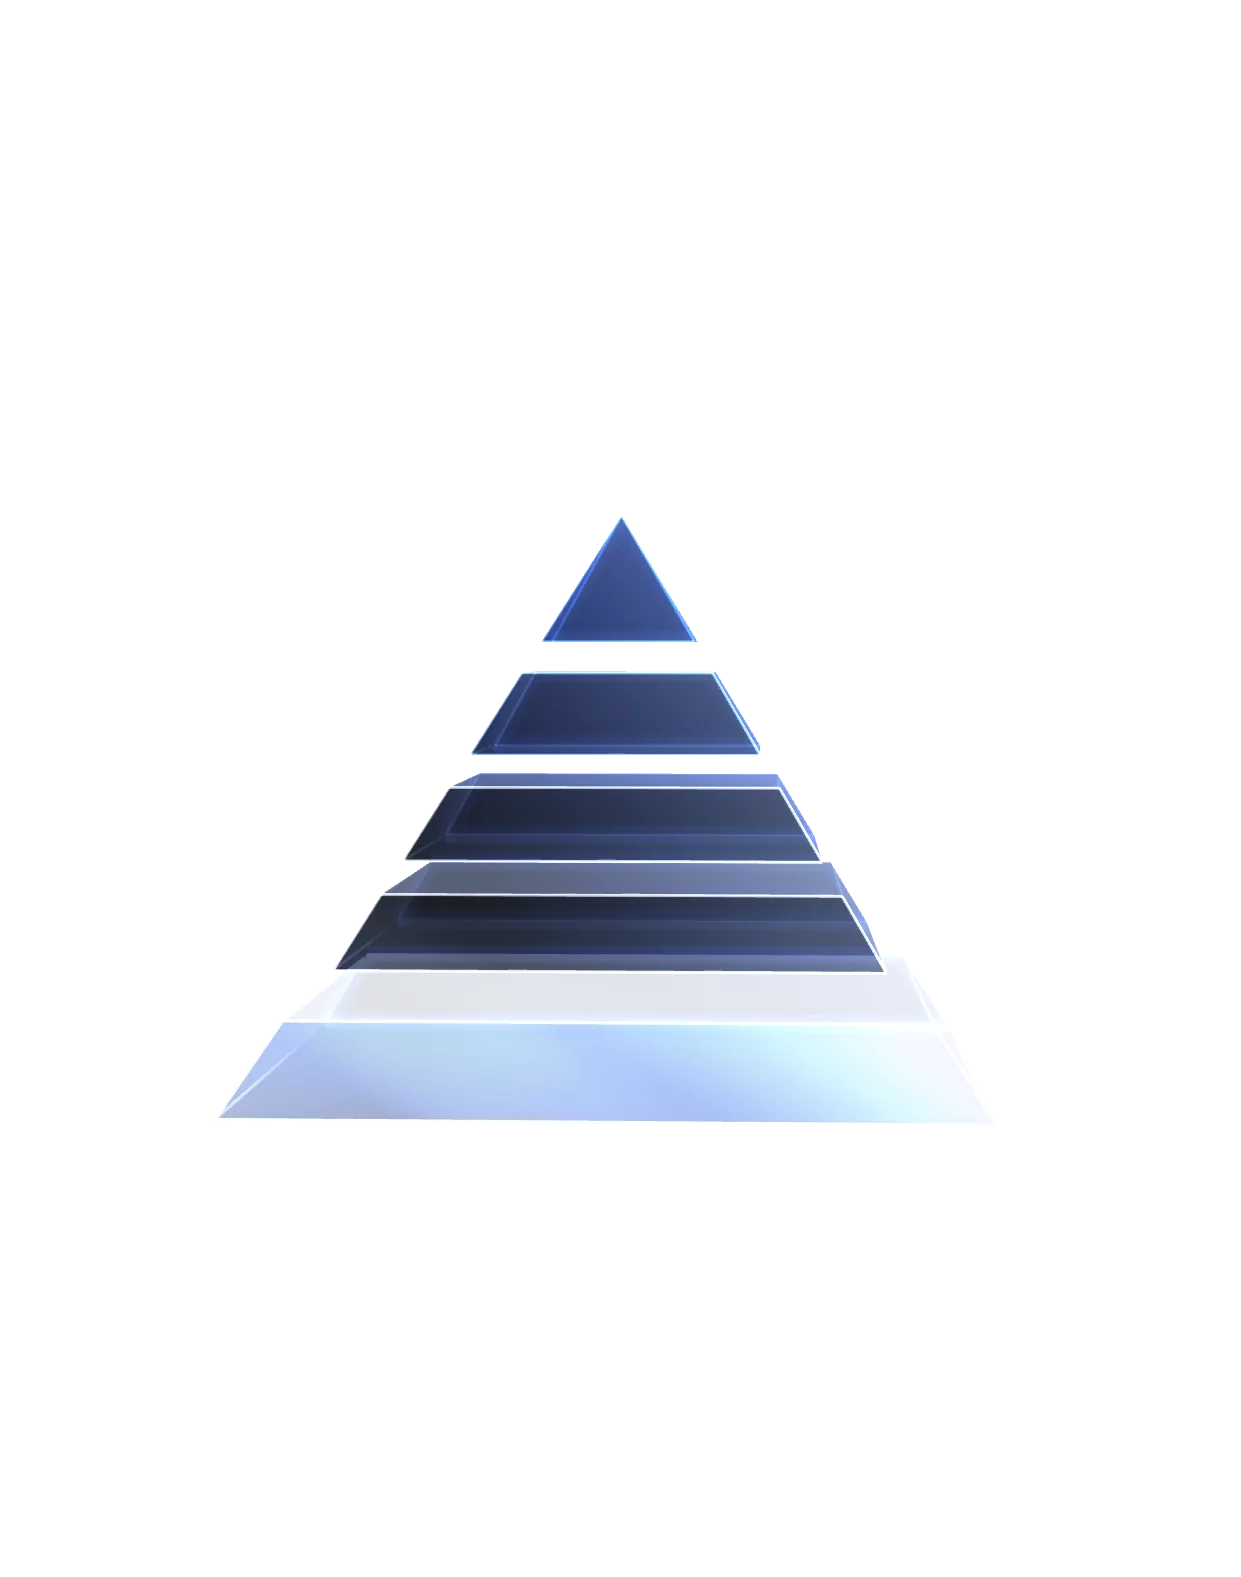
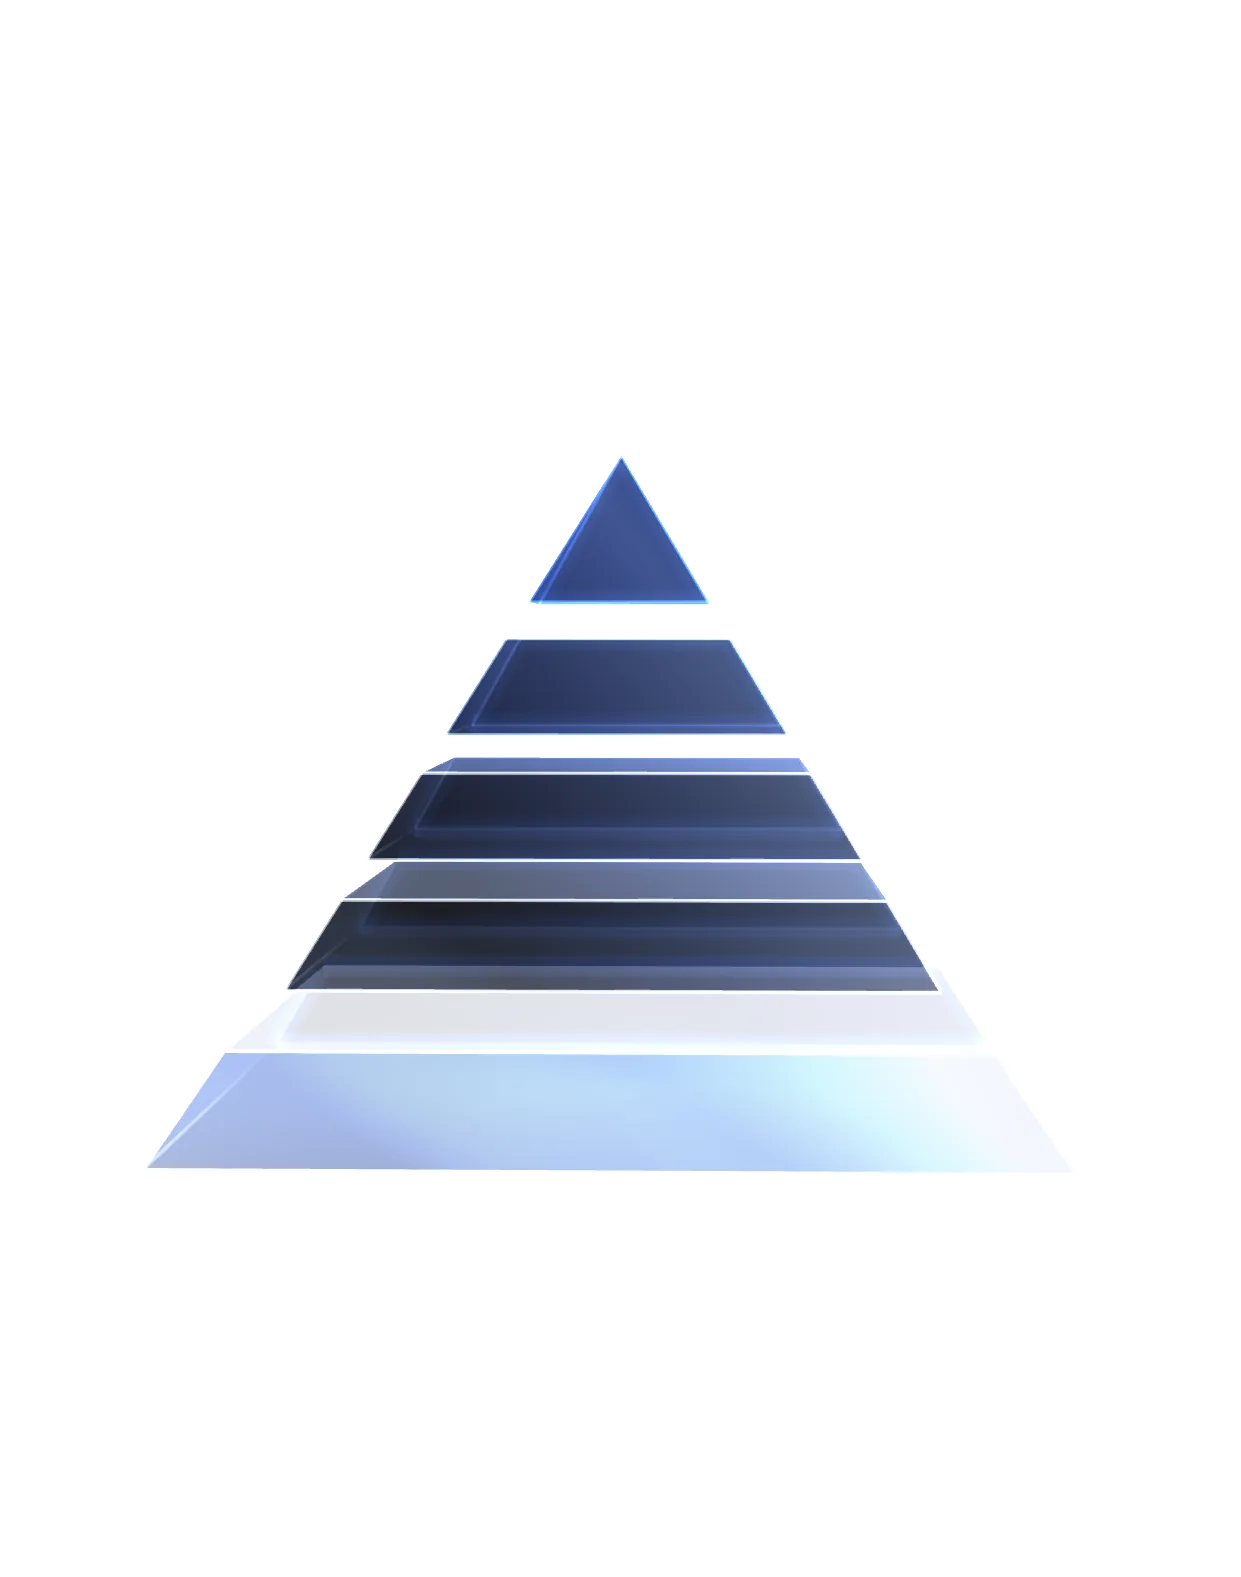
Dor com as duas frases (Nos cuidamos...), apoio da piramide novo, cases no dobro da velocidade, piramide 17% maior no computador (poster refeito), apoio da Dor e dos Cases na mesma coluna, titulo dos cases em 2 linhas e menos preto antes dos cases; ?v= novo

Changed region(s): [[0.1225, 0.2796, 0.7961, 0.7457]]

diff --git a/index.html b/index.html
@@ -25,7 +25,7 @@
 <meta name="theme-color" content="#050505">
 <link rel="icon" href="assets/img/favicon.svg" type="image/svg+xml">
 <link rel="preload" href="assets/fonts/DMSans-VF.ttf" as="font" type="font/ttf" crossorigin>
-<link rel="stylesheet" href="css/style.css?v=1793931000">
+<link rel="stylesheet" href="css/style.css?v=1793933800">
 <script type="importmap">
 { "imports": { "three": "https://cdn.jsdelivr.net/npm/three@0.165.0/build/three.module.js" }, "integrity": { "https://cdn.jsdelivr.net/npm/three@0.165.0/build/three.module.js": "sha384-Qvl1RLjZOCDFOOH2bKcGnaDHMM8MVv3zVtMvhy3juQdiIOs6RgQ/7zYdM1FbpHzI" } }
 </script>
@@ -231,7 +231,7 @@
   <section class="servicos" id="servicos" data-theme="light">
     <div class="wrap servicos__head">
       <h2 class="h2" data-lines>Seu cliente decide<br> antes de te chamar.</h2>
-      <p class="servicos__lead" data-lines>Ele pesquisou, comparou e escolheu em poucos minutos. A GYZA cuida da presença digital da sua empresa para o cliente sempre optar por você.</p>
+      <p class="servicos__lead" data-lines>Ele pesquisou, comparou e escolheu em poucos minutos.<br> Nós cuidamos da presença digital da sua empresa para o cliente sempre optar por você.</p>
     </div>
   </section>
 
@@ -241,7 +241,7 @@
     <div class="frentes__stage wrap">
       <div class="frentes__copy">
         <h2 class="h2 frentes__title" id="frentes-t">360° de marca.</h2>
-        <p class="frentes__intro">Do branding à performance, passando por identidade visual, site e conteúdo, a GYZA cuida de uma camada ou de todas.</p>
+        <p class="frentes__intro">Marca firme começa pela base, cada camada sustenta a próxima.</p>
         <div class="frentes__panels">
           <article class="frente is-on">
             <p class="frente__n">01</p>
@@ -552,7 +552,7 @@
 
 <script src="https://cdnjs.cloudflare.com/ajax/libs/gsap/3.12.5/gsap.min.js" integrity="sha512-7eHRwcbYkK4d9g/6tD/mhkf++eoTHwpNM9woBxtPUBWm67zeAfFC+HrdoE2GanKeocly/VxeLvIqwvCdk7qScg==" crossorigin="anonymous" referrerpolicy="no-referrer"></script>
 <script src="https://cdnjs.cloudflare.com/ajax/libs/gsap/3.12.5/ScrollTrigger.min.js" integrity="sha512-onMTRKJBKz8M1TnqqDuGBlowlH0ohFzMXYRNebz+yOcc5TQr/zAKsthzhuv0hiyUKEiQEQXEynnXCvNTOk50dg==" crossorigin="anonymous" referrerpolicy="no-referrer"></script>
-<script src="js/main.js?v=1793931000"></script>
-<script type="module" src="js/gl.js?v=1793931000"></script>
+<script src="js/main.js?v=1793933800"></script>
+<script type="module" src="js/gl.js?v=1793933800"></script>
 </body>
 </html>

diff --git a/css/style.css b/css/style.css
@@ -1405,3 +1405,18 @@ mark.conf { background: rgba(31,79,216,.10); color: var(--azul); padding: 1px 6p
 @media (prefers-reduced-motion: reduce) and (max-width: 900px) {
   .pyr-wrap { position: relative; top: auto; height: auto; min-height: 120vw; }
 }
+
+/* Dor: as duas frases do apoio em linhas próprias; no computador a primeira cabe inteira numa linha (Vitor, 05/11/2026) */
+@media (min-width: 901px) { .servicos__lead { max-width: 540px; } }
+
+/* ajustes finos do Diretor de Produto (05/11/2026): título e apoio da Dor e dos Cases na mesma grade, apoio alinhado na mesma coluna,
+   e menos preto entre a pirâmide e os Cases */
+@media (min-width: 901px) {
+  .servicos__head, .trabalhos__head { grid-template-columns: minmax(0, 1.35fr) minmax(0, 1fr); }
+  .servicos__lead, .trabalhos__lead { justify-self: start; max-width: 540px; }
+  /* o título dos cases usa a largura toda (a 1ª linha não quebra) e o apoio fica na 2ª coluna, na altura da linha curta de baixo */
+  .trabalhos__head .h2 { grid-column: 1 / -1; grid-row: 1; }
+  .trabalhos__head .h2 .line:first-child { white-space: nowrap; }
+  .trabalhos__lead { grid-column: 2; grid-row: 1; align-self: end; }
+  .trabalhos { padding-top: clamp(64px, 6vw, 104px); }
+}

diff --git a/js/gl.js b/js/gl.js
@@ -208,7 +208,7 @@ function pyramid() {
     canvas.dataset.poster = '1';
     const img = new Image();
     img.className = 'pyr-poster'; img.alt = '';
-    img.src = canvas.clientWidth < 600 ? 'assets/img/pyr-poster-m.webp?v=5' : 'assets/img/pyr-poster.webp?v=5';
+    img.src = canvas.clientWidth < 600 ? 'assets/img/pyr-poster-m.webp?v=5' : 'assets/img/pyr-poster.webp?v=6';
     canvas.after(img);
     canvas.style.display = 'none';
     const lab = document.querySelector('.pyr-labels'); if (lab) lab.style.display = 'none';
@@ -358,7 +358,7 @@ function pyramid() {
     // no celular a câmera chega mais perto: pirâmide maior na tela
     if (!OPT) {
       const near = w < 600;
-      camera.position.set(0, near ? 0.2 : 0.55, near ? 8.4 : 10.4);
+      camera.position.set(0, near ? 0.2 : 0.5, near ? 8.4 : 8.9);   // computador: 8.9 deixa a pirâmide uns 17% maior (Diretor de Produto, 05/11)
       camera.lookAt(0, near ? -0.55 : 0.05, 0);
     }
     camera.updateProjectionMatrix();

diff --git a/privacidade.html b/privacidade.html
@@ -16,7 +16,7 @@
 <meta name="theme-color" content="#050505">
 <link rel="icon" href="assets/img/favicon.svg" type="image/svg+xml">
 <link rel="preload" href="assets/fonts/DMSans-VF.ttf" as="font" type="font/ttf" crossorigin>
-<link rel="stylesheet" href="css/style.css?v=1793931000">
+<link rel="stylesheet" href="css/style.css?v=1793933800">
 </head>
 <body class="priv">
 
@@ -225,6 +225,6 @@
   <div class="wrap footer__legal"><span>© 2026 Glory Digital LTDA. GYZA é o nome fantasia da Glory Digital LTDA, CNPJ 43.637.282/0001-45.</span><span class="footer__links"><a href="index.html">Início</a><a href="#topo">Voltar ao topo</a></span></div>
 </footer>
 
-<script src="js/privacidade.js?v=1793931000"></script>
+<script src="js/privacidade.js?v=1793933800"></script>
 </body>
 </html>

diff --git a/js/main.js b/js/main.js
@@ -413,7 +413,8 @@
     // desliza sozinho, bem devagar (px por segundo); para quando a pessoa encosta e volta depois
     if (loop) {
       const step = 1 / (window.devicePixelRatio || 1);
-      const speed = innerWidth < 600 ? 20 : 32;
+      // cases no dobro da velocidade (Vitor, 05/11/2026): 40 px/s no celular e 65 no computador
+      const speed = attr === 'cases' ? (innerWidth < 600 ? 37 : 65) : (innerWidth < 600 ? 20 : 32);
       let acc = 0, t0 = performance.now();
       // no sentido inverso começa no fim da primeira cópia, para ter para onde andar
       if (dir < 0) { track.scrollLeft = left(N); expect = track.scrollLeft; }
